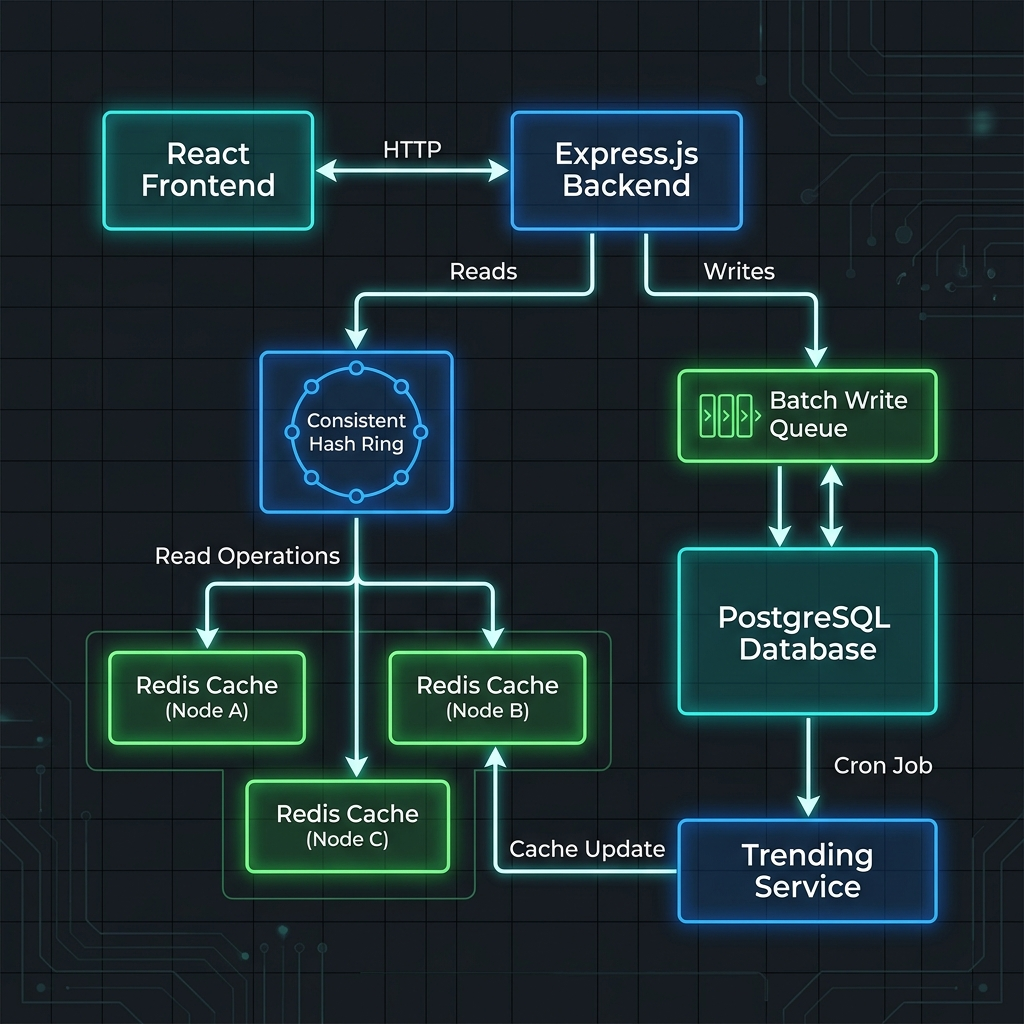
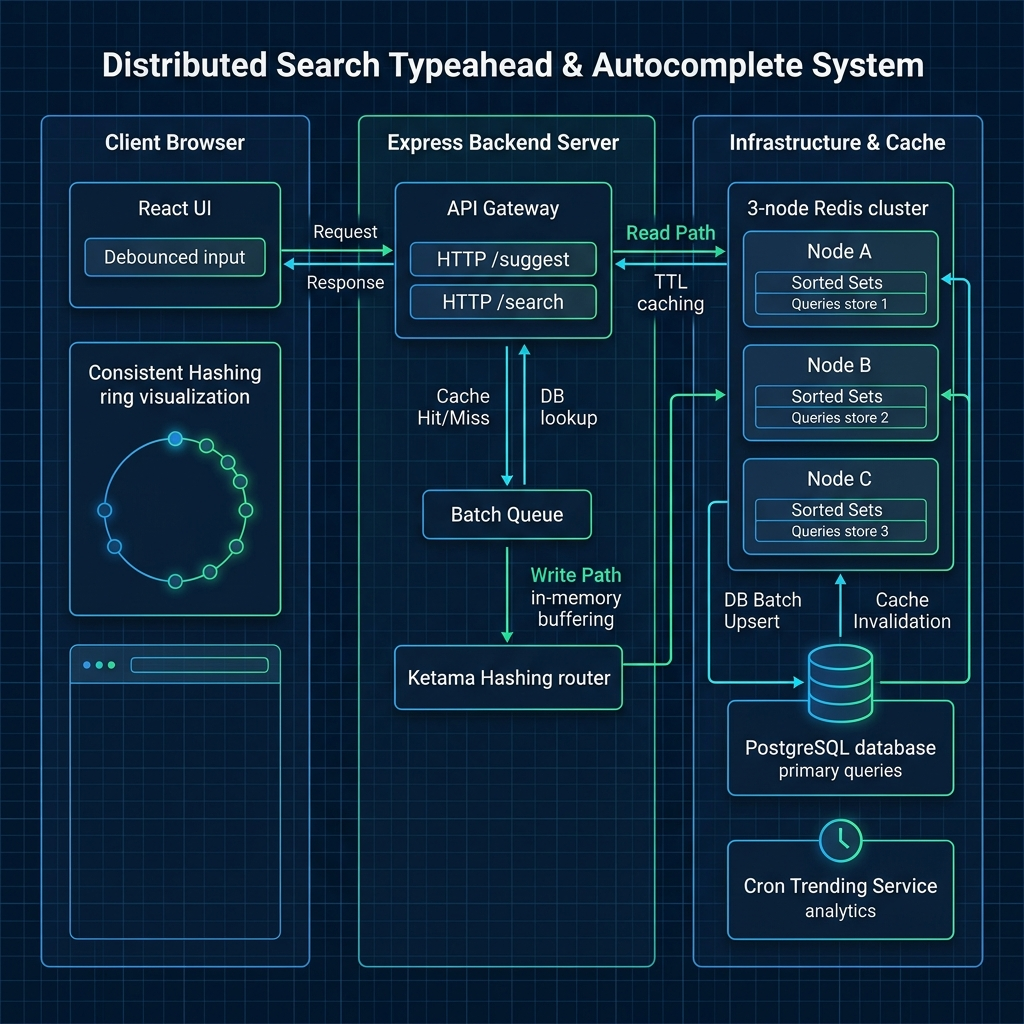
Update system architecture with detailed visual diagram and Mermaid flowchart

diff --git a/README.md b/README.md
@@ -28,16 +28,80 @@ Buffers PostgreSQL writes and shows real-time stats including queue latency, tot
 
 ## 🏗️ System Architecture
 
+### 1. Architectural Blueprint
+The system is divided into three distinct operational layers designed for extreme write reduction and microsecond reads.
+
 ![System Architecture Diagram](./screenshots/architecture_diagram.png)
 
-### Component Breakdown
-1. **React Frontend**: Debounces input requests (`220ms`), displays suggestion lists showing matching prefixes, navigates options via keyboard, and provides administrative visualizers (Cache monitoring, ring trace).
-2. **Express Backend**: Hosts endpoints for fetching suggestions, submitting searches, and querying cluster nodes diagnostics.
-3. **Consistent Hash Router**: Hashes cache keys (`suggest:<prefix>`) using MD5 Ketama hash ring with `160 vnodes` per physical server to distribute keys evenly among the Redis nodes.
-4. **Redis Cache (3-node Cluster)**: Serves autocomplete lists with sub-10ms latency using Redis Sorted Sets (`ZSET`).
-5. **Trending Service**: Recomputes suggestion rankings every 5 minutes by blending total database hits and recent hourly activity (tracked via Redis sliding window):
-   $$\text{Score} = 0.7 \times \text{log\_normalized\_total} + 0.3 \times \text{normalized\_recency}$$
-6. **Batch Writer Queue**: Prevents PostgreSQL write saturation by collecting searches in a buffer, aggregating counters, and performing bulk upserts (`INSERT ... ON CONFLICT DO UPDATE`) every **10 seconds** or when the buffer hits **1000 queries**.
+### 2. High-Level Flow & Component Diagram
+Below is the interactive technical flowchart illustrating the network boundaries, ports, protocols, and data pathways for both read and write paths.
+
+```mermaid
+flowchart TB
+    %% Styling classes
+    classDef clientStyle fill:#111827,stroke:#06b6d4,stroke-width:2px,color:#f9fafb,font-weight:bold;
+    classDef serverStyle fill:#111827,stroke:#3b82f6,stroke-width:2px,color:#f9fafb,font-weight:bold;
+    classDef cacheStyle fill:#111827,stroke:#10b981,stroke-width:2px,color:#f9fafb,font-weight:bold;
+    classDef dbStyle fill:#111827,stroke:#f59e0b,stroke-width:2px,color:#f9fafb,font-weight:bold;
+
+    subgraph ClientZone ["🌐 Client Layer (Web Browser)"]
+        UI["React Search Component<br/>(Debounced input & 3-character threshold)"]:::clientStyle
+        RingVis["Consistent Hash Ring Visualizer<br/>(MD5 Ketama Node Lookup)"]:::clientStyle
+    end
+
+    subgraph AppZone ["⚙️ Application Layer (Node.js/Express Server)"]
+        API["Express Router & Controller"]:::serverStyle
+        HashRouter["Consistent Hashing Router<br/>(160 Virtual Nodes per physical node)"]:::serverStyle
+        BatchQueue["BatchWriter Queue Buffer<br/>(In-Memory array)"]:::serverStyle
+    end
+
+    subgraph CacheZone ["⚡ Distributed Cache Layer (Redis Cluster)"]
+        RedisA["[(Redis Node A)]<br/>Port 6379<br/>(ZSET: suggest:*)"]:::cacheStyle
+        RedisB["[(Redis Node B)]<br/>Port 6380<br/>(ZSET: suggest:*)"]:::cacheStyle
+        RedisC["[(Redis Node C)]<br/>Port 6381<br/>(ZSET: suggest:*)"]:::cacheStyle
+    end
+
+    subgraph StorageZone ["💾 Persistent Database & Analytics Layer"]
+        Postgres["[(PostgreSQL Database)]<br/>Port 5433<br/>(Index: idx_queries_text_score)"]:::dbStyle
+        TrendingService["Trending Cron Job<br/>(Calculates score every 5m)"]:::dbStyle
+    end
+
+    %% Read Path
+    UI -- "GET /suggest?q=prefix (min 3 chars)" --> API
+    API -- "1. Hashing Key suggest:prefix" --> HashRouter
+    HashRouter -- "2. Lookup Cache" --> RedisA
+    HashRouter -- "2. Lookup Cache" --> RedisB
+    HashRouter -- "2. Lookup Cache" --> RedisC
+
+    RedisA -.->|Cache HIT| API
+    RedisB -.->|Cache HIT| API
+    RedisC -.->|Cache HIT| API
+
+    API -- "3. Cache MISS (Fallback Select)" --> Postgres
+    Postgres -- "4. Return database results" --> API
+    API -- "5. Set cache (TTL = 300s)" --> HashRouter
+
+    %% Write Path
+    UI -- "POST /search {query}" --> API
+    API -- "Immediate 'Searched' 200 OK Response" --> UI
+    API -- "Enqueue update in memory" --> BatchQueue
+    BatchQueue -- "Bulk Upsert (every 10s or 1000 items)" --> Postgres
+    BatchQueue -- "Flush Invalidation (Delete suggest:prefix)" --> HashRouter
+
+    %% Analytics & Trending Path
+    TrendingService -- "1. Read total counts & hourly window" --> Postgres
+    TrendingService -- "2. Calculate formula score" --> Postgres
+    TrendingService -- "3. Write rankings back to cache nodes" --> HashRouter
+```
+
+### 3. Component Deep Dive
+1. **React Frontend**: Captures input queries, enforces a **3-character minimum** to avoid caching single/double character prefixes, triggers requests with a **220ms debounce**, handles navigation using keyboard arrows/Enter, and visualizes MD5 Ketama hash ring mappings dynamically.
+2. **Express Backend**: Hosts endpoints for fetching suggestions (`GET /suggest`), registering searches (`POST /search`), and exposing administrative diagnostics (/cache/status, /ring/trace).
+3. **Consistent Hash Router**: Uses a Ketama hashing implementation with **160 virtual nodes** per physical cache instance. This ensures query prefixes (`suggest:<prefix>`) are evenly distributed and minimizes cache keys displacement during scale events.
+4. **Redis Cache (3-node Cluster)**: Configured as individual nodes listening on ports `6379`, `6380`, and `6381`. It stores query prefix lists as Redis Sorted Sets (`ZSET`), allowing rapid autocomplete suggestion retrieval ranked by score.
+5. **Trending Service**: A node-cron scheduler executing every 5 minutes that fetches raw counts and hourly decay metrics from PostgreSQL, computes updated popularity-time scores, and populates physical Redis cluster nodes.
+6. **Batch Writer Queue**: Prevents PostgreSQL connection pool exhaustion by capturing write transactions in an in-memory buffer. It flushes batched upserts (`INSERT ... ON CONFLICT DO UPDATE`) every **10 seconds** or when the buffer size reaches **1000 items**, achieving up to a **99% write reduction**.
+7. **Cache Invalidation Handler**: On successful database flushes, the Batch Writer identifies the prefixes of all updated queries and explicitly deletes their `suggest:<prefix>` cache keys in Redis. This invalidates stale Negative Cache (`__empty__` sentinels) immediately, ensuring immediate availability of new searches.
 
 ---
 